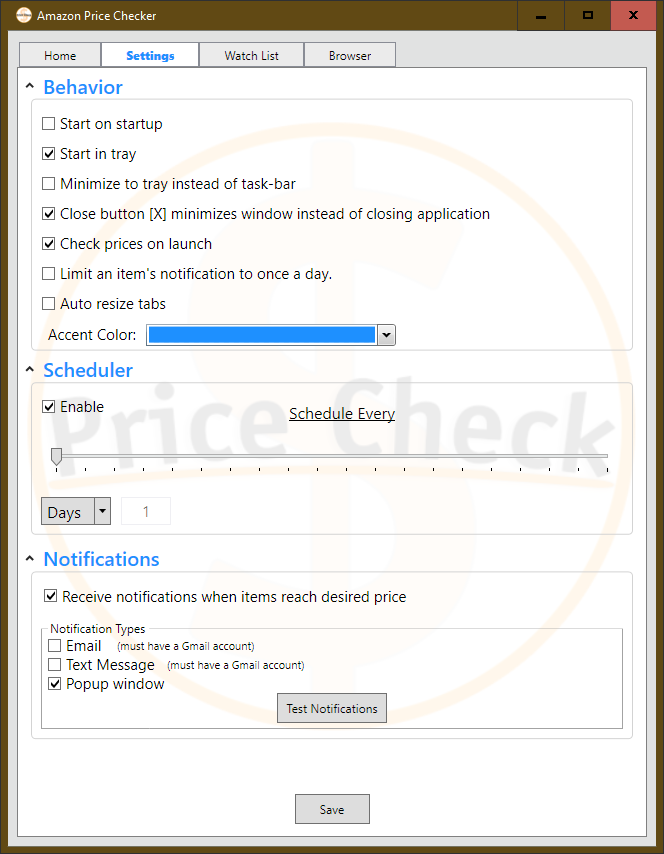
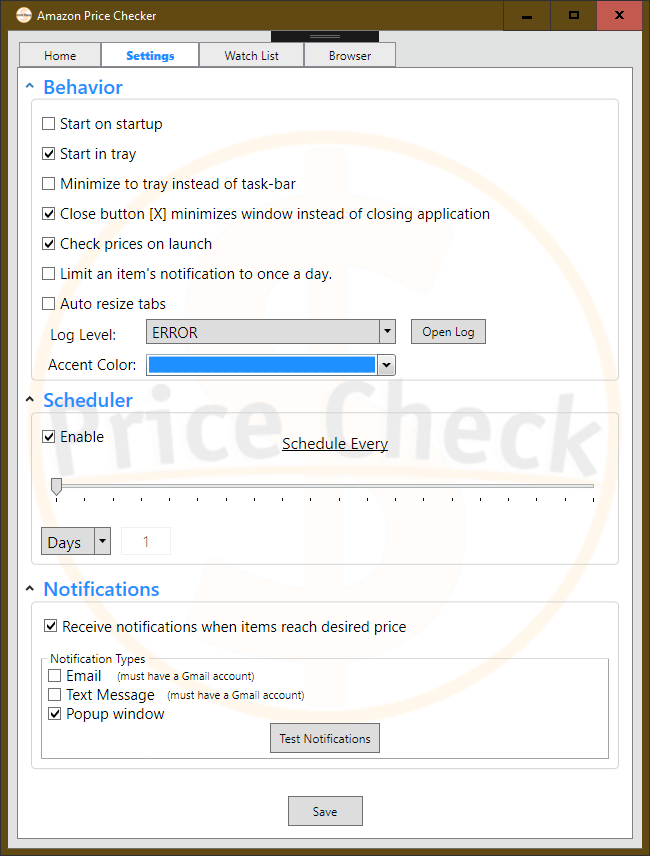
Setting log level on startup

diff --git a/src/Amazon Price Check/Common/Settings.cs b/src/Amazon Price Check/Common/Settings.cs
@@ -89,8 +89,6 @@ namespace Amazon_Price_Checker.Common
                 //Add or remove from registry if the startup checkbox changed
                 if (Properties.Settings.Default.StartOnStartup != startOnStartup)
                     ToggleStartupRegistry(startOnStartup);
-                if (Properties.Settings.Default.LogLevel != logLevel)
-                    UpdateLogLevel(logLevel);
 
                 Properties.Settings.Default.StartOnStartup = startOnStartup;
                 Properties.Settings.Default.StartInTray = startInTray;
@@ -293,6 +291,8 @@ namespace Amazon_Price_Checker.Common
             this.PhoneNumber = Properties.Settings.Default.PhoneNumber;
             this.CarrierAddress = Properties.Settings.Default.CarrierAddress;
             this.PopupNotifications = Properties.Settings.Default.PopupNotifications;
+
+            UpdateLogLevel(this.LogLevel); //Must set the log level on startup because by defualt it is set to ALL
 
         }
 

diff --git a/src/Amazon Price Check/MainWindow.xaml.cs b/src/Amazon Price Check/MainWindow.xaml.cs
@@ -648,7 +648,7 @@ namespace Amazon_Price_Checker
                 DateTime.TryParse(row["LastModifiedDate"].ToString(), out DateTime lastModifiedDate);
                 DateTime.TryParse(row["LastNotifiedDate"].ToString(), out DateTime lastNotifiedDate);
 
-                CommonFunctions.Log.Debug($"Adding item to watch list:= '{itemID}' '{title}' '{url}' '{amazonPrice}' '{desiredPrice}' '{createDate}' '{lastModifiedDate}' '{lastNotifiedDate}'");
+                CommonFunctions.Log.Debug($"Adding item to watch list:= '{itemID}', '{title}', '{url}', '{amazonPrice}', '{desiredPrice}', '{createDate}', '{lastModifiedDate}', '{lastNotifiedDate}'");
                 AmazonWatchItem item = new AmazonWatchItem(itemID, title, url, amazonPrice, desiredPrice, createDate, lastModifiedDate, lastNotifiedDate);
                 watchList.Add(item);
             }

diff --git a/src/Amazon Price Check/Common/CommonFunctions.cs b/src/Amazon Price Check/Common/CommonFunctions.cs
@@ -19,7 +19,7 @@ namespace Amazon_Price_Checker.Common
         {
             try
             {
-                Log.Info($"Changing log level to '{logLevel}'");
+                Log.Info($"Setting log level to '{logLevel}'");
                 ((log4net.Repository.Hierarchy.Hierarchy)LogManager.GetRepository()).Root.Level = Log.Logger.Repository.LevelMap[logLevel];
                 ((log4net.Repository.Hierarchy.Hierarchy)LogManager.GetRepository()).RaiseConfigurationChanged(EventArgs.Empty);
             }
